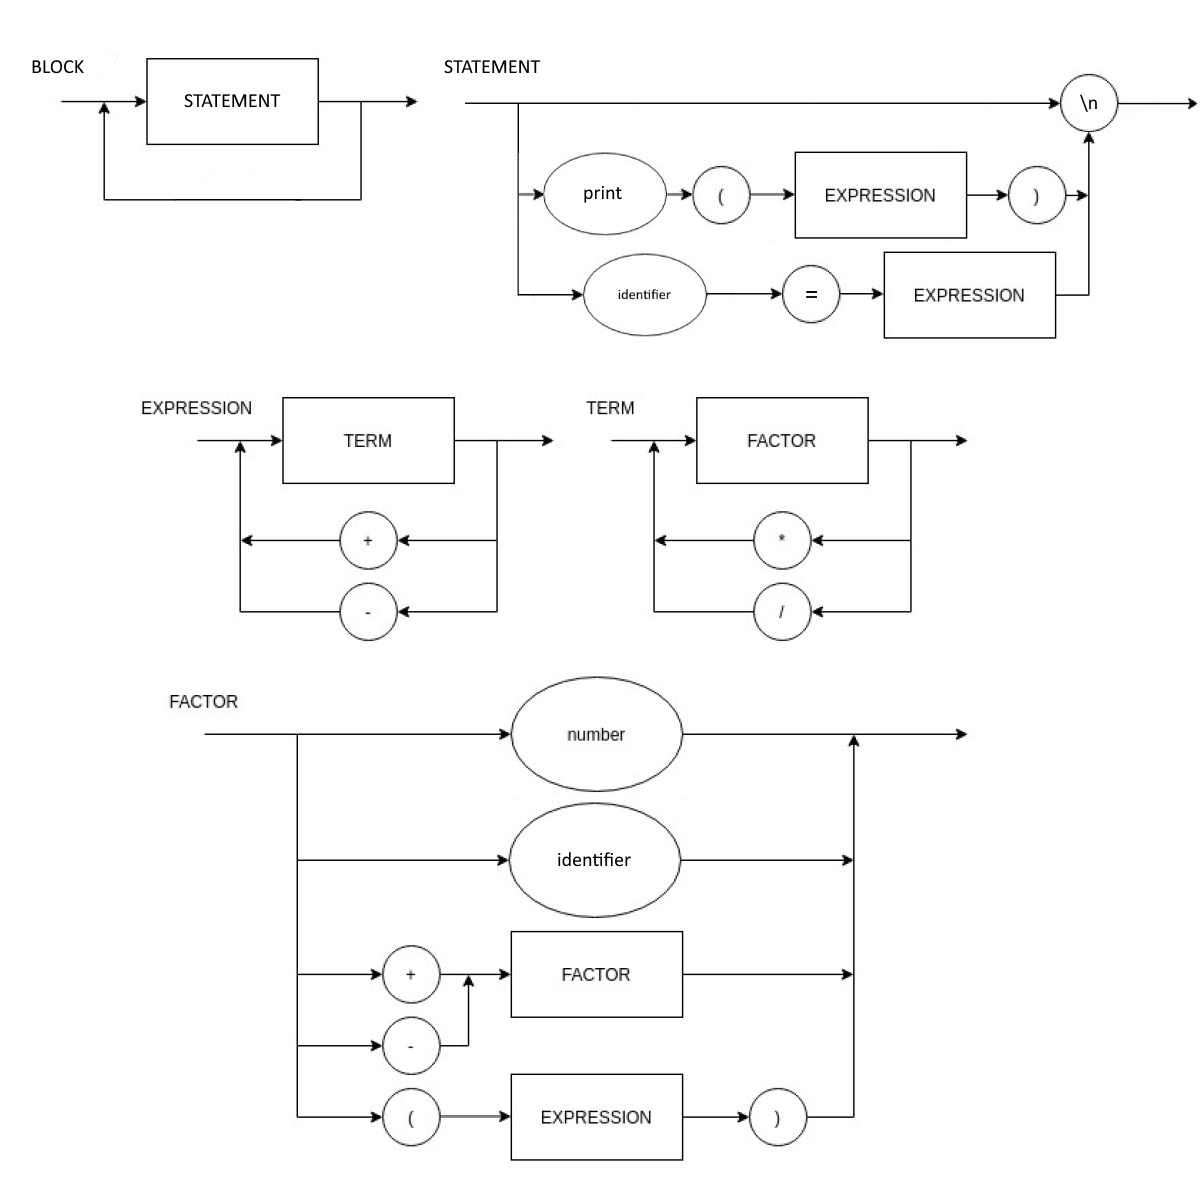
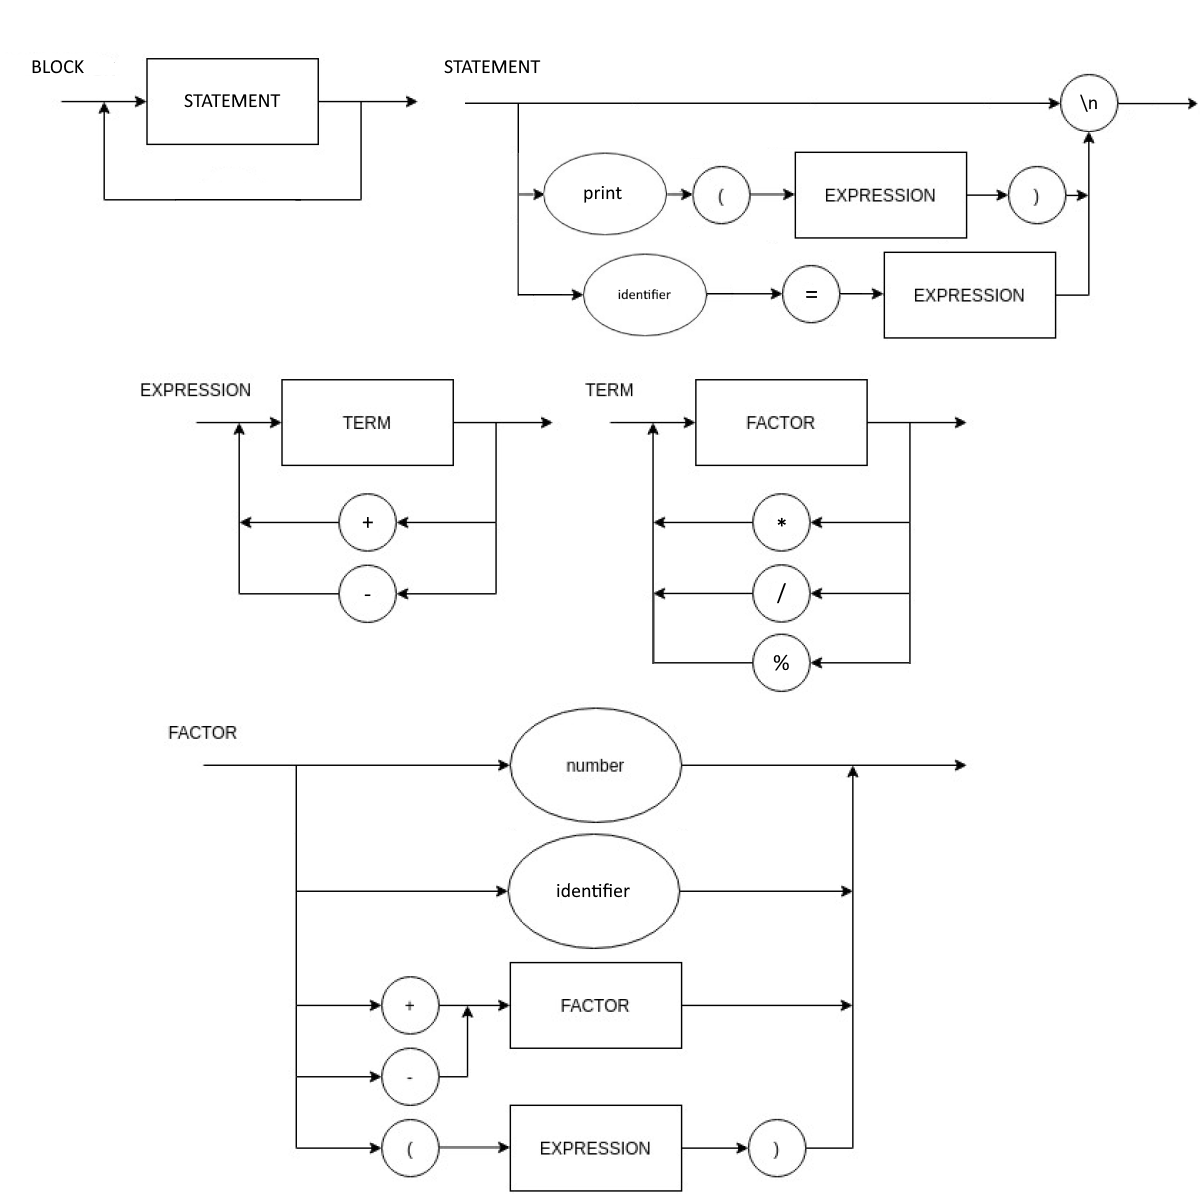
Update diagram/ebnf with %

diff --git a/README.md b/README.md
@@ -10,7 +10,7 @@
 <li>ASSIGNMENT = IDENTIFIER, "=", EXPRESSION ;
 <li>PRINT = "print", "(", EXPRESSION, ")" ;
 <li>EXPRESSION = TERM, { ("+" | "-"), TERM } ;
-<li>TERM = FACTOR, { ("*" | "/"), FACTOR } ;
+<li>TERM = FACTOR, { ("*" | "/" | "%"), FACTOR } ;
 <li>FACTOR = (("+" | "-"), FACTOR) | NUMBER | "(", EXPRESSION, ")" | IDENTIFIER ;
 <li>IDENTIFIER = LETTER, { LETTER | DIGIT | "_" } ;
 <li>NUMBER = DIGIT, { DIGIT } ;
